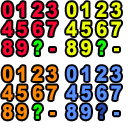
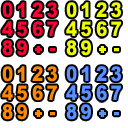
180126 一通り書き直し＆バグ修正、ShowLagTime仕様を少し本家化
180126 一通り書き直し＆バグ修正、ShowLagTime仕様を少し本家化

diff --git a/DTXManiaプロジェクト/コード/ステージ/07.演奏/ギター画面/CAct演奏Guitar判定文字列.cs b/DTXManiaプロジェクト/コード/ステージ/07.演奏/ギター画面/CAct演奏Guitar判定文字列.cs
@@ -1421,7 +1421,7 @@ namespace DTXMania
                                     {
                                         bool minus = false;
                                         int offsetX = 0;
-                                        string strDispLag = base.st状態[j].nLag.ToString();
+                                        string strDispLag = base.st状態[j].nLag.ToString("+#;-#;0");
                                         if (st状態[j].nLag < 0)
                                         {
                                             minus = true;
@@ -1429,9 +1429,9 @@ namespace DTXMania
                                         x = xc - strDispLag.Length * 15 / 2;
                                         for (int i = 0; i < strDispLag.Length; i++)
                                         {
-                                            int p = (strDispLag[i] == '-') ? 11 : (int)(strDispLag[i] - '0');	//int.Parse(strDispLag[i]);
+                                            int p = (strDispLag[i] == '-') ? 10 : ((strDispLag[i] == '+') ? 11 : (int)(strDispLag[i] - '0'));
                                             p += minus ? 0 : 12;		// change color if it is minus value
-                                            base.txlag数値.t2D描画(CDTXMania.app.Device, x + offsetX, y + 34, base.stLag数値[p].rc);
+                                            base.txlag数値.t2D描画(CDTXMania.app.Device, x + offsetX, y + 110, base.stLag数値[p].rc);
                                             offsetX += 15;
                                         }
                                     }
@@ -1559,18 +1559,18 @@ namespace DTXMania
                                     {
                                         bool minus = false;
                                         int offsetX = 0;
-                                        string strDispLag = base.st状態[j].nLag.ToString();
+                                        string strDispLag = base.st状態[j].nLag.ToString("+#;-#;0");
                                         if (st状態[j].nLag < 0)
                                         {
                                             minus = true;
                                         }
                                         //x = xc - strDispLag.Length * 15 / 2;
-                                        x = ( ( num5 ) + (this.stレーンサイズ[j].w / 2) ) - strDispLag.Length * 15 / 2;
+                                        x = ((num5) + (this.stレーンサイズ[j].w / 2)) - strDispLag.Length * 15 / 2;
                                         for (int i = 0; i < strDispLag.Length; i++)
                                         {
-                                            int p = (strDispLag[i] == '-') ? 11 : (int)(strDispLag[i] - '0');	//int.Parse(strDispLag[i]);
+                                            int p = (strDispLag[i] == '-') ? 10 : ((strDispLag[i] == '+') ? 11 : (int)(strDispLag[i] - '0'));
                                             p += minus ? 0 : 12;		// change color if it is minus value
-                                            base.txlag数値.t2D描画(CDTXMania.app.Device, x + offsetX, y + 34, base.stLag数値[p].rc);
+                                            base.txlag数値.t2D描画(CDTXMania.app.Device, x + offsetX, y + 110, base.stLag数値[p].rc);
                                             offsetX += 15;
                                         }
                                     }

diff --git a/DTXManiaプロジェクト/コード/ステージ/07.演奏/ドラム画面/CAct演奏Drums判定文字列.cs b/DTXManiaプロジェクト/コード/ステージ/07.演奏/ドラム画面/CAct演奏Drums判定文字列.cs
@@ -1333,7 +1333,7 @@ namespace DTXMania
                                     {
                                         bool minus = false;
                                         int offsetX = 0;
-                                        string strDispLag = base.st状態[j].nLag.ToString();
+                                        string strDispLag = base.st状態[j].nLag.ToString("+#;-#;0");
                                         if (st状態[j].nLag < 0)
                                         {
                                             minus = true;
@@ -1341,9 +1341,9 @@ namespace DTXMania
                                         x = xc - strDispLag.Length * 15 / 2;
                                         for (int i = 0; i < strDispLag.Length; i++)
                                         {
-                                            int p = (strDispLag[i] == '-') ? 11 : (int)(strDispLag[i] - '0');	//int.Parse(strDispLag[i]);
+                                            int p = (strDispLag[i] == '-') ? 10 : ((strDispLag[i] == '+') ? 11 : (int)(strDispLag[i] - '0'));
                                             p += minus ? 0 : 12;		// change color if it is minus value
-                                            base.txlag数値.t2D描画(CDTXMania.app.Device, x + offsetX, y + 34, base.stLag数値[p].rc);
+                                            base.txlag数値.t2D描画(CDTXMania.app.Device, x + offsetX, y + 110, base.stLag数値[p].rc);
                                             offsetX += 15;
                                         }
                                     }
@@ -1455,18 +1455,18 @@ namespace DTXMania
                                     {
                                         bool minus = false;
                                         int offsetX = 0;
-                                        string strDispLag = base.st状態[j].nLag.ToString();
+                                        string strDispLag = base.st状態[j].nLag.ToString("+#;-#;0");
                                         if (st状態[j].nLag < 0)
                                         {
                                             minus = true;
                                         }
                                         //x = xc - strDispLag.Length * 15 / 2;
-                                        x = ( ( num5 ) + (this.stレーンサイズ[j].w / 2) ) - strDispLag.Length * 15 / 2;
+                                        x = ((num5) + (this.stレーンサイズ[j].w / 2)) - strDispLag.Length * 15 / 2;
                                         for (int i = 0; i < strDispLag.Length; i++)
                                         {
-                                            int p = (strDispLag[i] == '-') ? 11 : (int)(strDispLag[i] - '0');	//int.Parse(strDispLag[i]);
+                                            int p = (strDispLag[i] == '-') ? 10 : ((strDispLag[i] == '+') ? 11 : (int)(strDispLag[i] - '0'));
                                             p += minus ? 0 : 12;		// change color if it is minus value
-                                            base.txlag数値.t2D描画(CDTXMania.app.Device, x + offsetX, y + 34, base.stLag数値[p].rc);
+                                            base.txlag数値.t2D描画(CDTXMania.app.Device, x + offsetX, y + 110, base.stLag数値[p].rc);
                                             offsetX += 15;
                                         }
                                     }

diff --git a/DTXManiaプロジェクト/コード/ステージ/07.演奏/CStage演奏画面共通.cs b/DTXManiaプロジェクト/コード/ステージ/07.演奏/CStage演奏画面共通.cs
@@ -3373,7 +3373,7 @@ namespace DTXMania
                     }
                     break;
             }
-            if (pChip.e楽器パート == E楽器パート.DRUMS && pChip.nチャンネル番号 != 0x76)
+            if (pChip.e楽器パート == E楽器パート.DRUMS)
             {
                 if (bIsAutoPlay[this.nチャンネル0Atoレーン07[pChip.nチャンネル番号 - 0x11]])
                 {

diff --git a/DTXManiaプロジェクト/コード/スコア、曲/CDTX.cs b/DTXManiaプロジェクト/コード/スコア、曲/CDTX.cs
@@ -2152,6 +2152,7 @@ namespace DTXMania
                             case 0x1c:
                                 // オートチャンネルに移行
                                 chip.nチャンネル番号 = 0x76;
+                                chip.e楽器パート = E楽器パート.UNKNOWN;
                                 continue;
                         }
                     }

diff --git a/DTXManiaプロジェクト/コード/ステージ/04.コンフィグ/CActConfigList.cs b/DTXManiaプロジェクト/コード/ステージ/04.コンフィグ/CActConfigList.cs
@@ -2854,6 +2854,7 @@ namespace DTXMania
         private CItemList iDrumsRandomPedal;
         private CItemList iDrumsNumOfLanes;
         private CItemList iDrumsDkdkType;
+        private CItemToggle iDrumsGroupRandom;
         private CItemToggle iDrumsAssignToLBD;
         private CItemToggle iDrumsHAZARD;
         private CItemList iDrumsAttackEffect;
